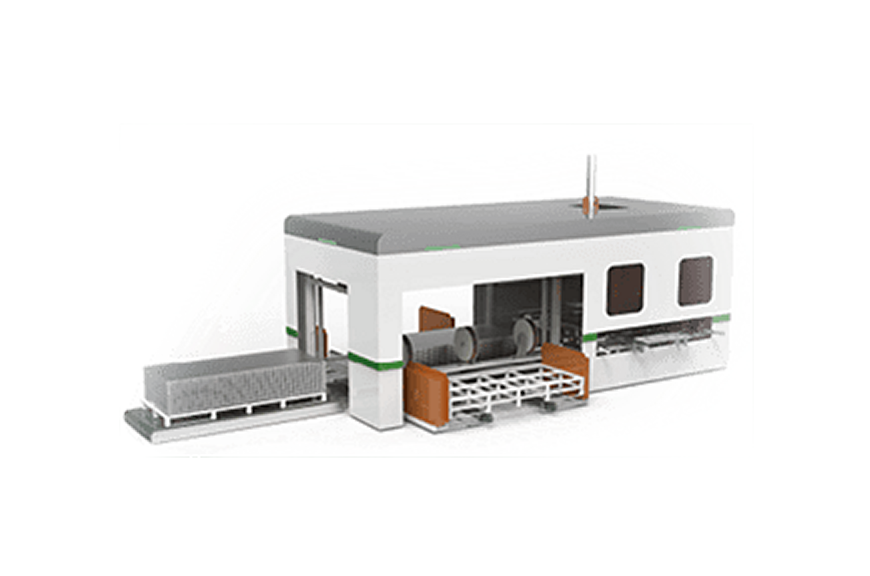
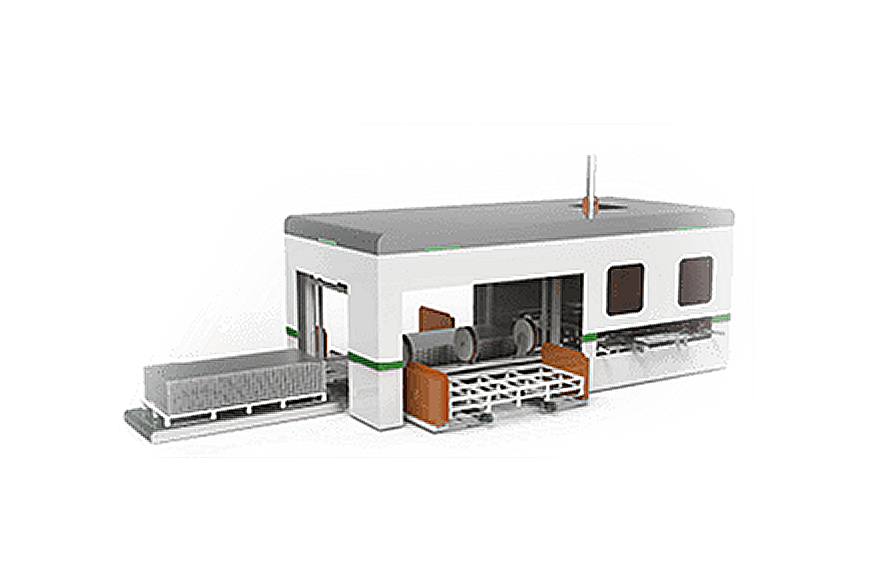
fix: 产品图改标准温和锐化并加亮度验证，详情页图片限宽防拉伸发虚

diff --git a/src/views/Products.vue b/src/views/Products.vue
@@ -100,11 +100,16 @@ const advantages = () => {
 .product-scene {
   border-radius: var(--radius-sm);
   overflow: hidden;
-  margin-bottom: var(--space-5);
-  aspect-ratio: 21 / 8;
-  background: linear-gradient(135deg, var(--bg-2), var(--bg-0));
+  margin: 0 auto var(--space-5);
+  aspect-ratio: 3 / 2;
+  max-width: 48.5rem; /* 870px @18px root：不超过图片原生尺寸，避免拉伸发虚 */
+  display: grid;
+  place-items: center;
+  background:
+    radial-gradient(40rem 14rem at 70% -20%, rgba(0, 168, 120, 0.08), transparent),
+    var(--bg-2);
 }
-.product-scene img { width: 100%; height: 100%; object-fit: cover; }
+.product-scene img { max-width: 100%; max-height: 100%; width: auto; height: auto; object-fit: contain; }
 .scene-placeholder {
   display: grid;
   place-items: center;

diff --git a/memory-bank/activeContext.md b/memory-bank/activeContext.md
@@ -7,14 +7,14 @@
 **工作重点**：寅铠官网改版 S2–S6 已完成首轮全量实现并通过构建验证。
 
 **最近变更**：
-- 产品图高清化：发现产品详情页共 13 张图（全部源分辨率 435x288，无更大原图）；用 jimp 做 2x bicubic 放大+卷积锐化 → 870x576，覆盖 public/images/products/（文件名不变原位替换，yk3e-line 删除、新增 yk3e-palletizer 与 yk6-line-alt）
-- 首页"产品与服务"三卡片接入真实设备图（businessImages：line→yk6-line-alt / palletizing→ykal-loader / vision→ykol-vision），卡片顶部图 + 图标标题行，hover 图片微缩放
-- build 通过
+- 产品图清晰化（二次修复后定稿）：2x bicubic + 标准温和锐化核（中心5），并加亮度统计自动验证（上次毁图原因是自创卷积核参数错误）；Products 详情页图片限宽 48.5rem（=图片原生 870px），不再拉伸发虚
+- 产品图高清化：产品详情页共 13 张源图（435x288），jimp 增强至 870x576；首页业务三卡接入真实设备图（businessImages）
+- 伙伴 logo 恒彩色、网格 minmax 修复、全站字体 +12.5%、用户 logo+全称、浅色主题（Hero/CTA 深色锚点）
 
 **下一步**：
 1. 视觉走查（用户在内置浏览器确认）
 2. yk3e/yk-bending 产品对应关系确认（TODO）
-3. 产品参数真实数据、伙伴名单（待用户提供）
+3. 产品参数真实数据、伙伴名单（待用户提供）；如需真正超分可接 AI 超分 API（需密钥）
 
 **关键决策**：
 - 弹性布局：rem 基准 + clamp 视口联动 + EP 尺寸变量 rem 化；≤768px 根字号走 clamp 下限 12px

diff --git a/memory-bank/progress.md b/memory-bank/progress.md
@@ -12,6 +12,7 @@
 | 2026-09-15 | v0.1.2 | 品牌调整：用户 logo + 公司全称上导航栏，favicon 替换；全站翻转为浅色主题（Hero/CTA 保留深色锚点） |
 | 2026-09-15 | v0.1.3 | 伙伴 logo 恒彩色 + 网格溢出修复；全站字体放大 ~12.5%（根字号 clamp 上调） |
 | 2026-09-15 | v0.1.4 | 产品图 2x 放大锐化增强（jimp），首页业务三卡接入真实设备图 |
+| 2026-09-15 | v0.1.5 | 修复自创锐化核毁图问题（改标准核+亮度验证）；Products 详情图限宽防拉伸 |
 
 ## 待构建
 
